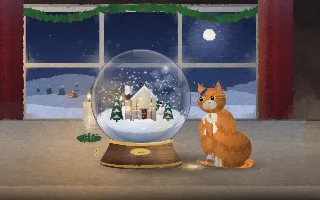
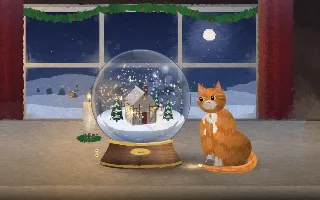
Snow Globe: SPEC §10.43 and its rows, README, a fresh thumbnail and bench

diff --git a/SPEC.md b/SPEC.md
@@ -163,7 +163,7 @@ Added for Christmas, drawn in code (designs in §10.27–§10.30):
 | `christmas-village` | village-logic.js, village-art.js, village-buildings.js, village-scene.js, village-actors.js, christmas-village.js (and Harvest's harvest-sky.js) | ~3.9k lines | Interactive (tap a cat, a skater, a house, a tree, the cabin, the sky); a New England town painted in code at daylight colour and washed with the hour; the light, the calendar, the windows' hours, the layout and the skaters' steering (`VillageLogic`), unit-tested; follows `host.now()` (the real sun and moon, the church clock, Christmas Eve) (§10.40) |
 | `painted-village` | painted-logic.js, painted-plates.js, painted-art.js, painted-buildings.js, painted-bake.js, painted-cast.js, painted-village.js (and Harvest's harvest-sky.js, Christmas Village's village-logic.js) | ~4.2k lines | Interactive (tap a house, a lamp, a skater, the grand tree, the snowman, a cat, a squirrel, the deer, the bears, the cardinal, the night sky); §10.40's whole town from the hill above the pond, in metres, as about 325,000 brush strokes laid once and lit by canvas arithmetic: the sky's light, two key lights, and a patch of light for every lamp and every floor of windows; the camera, the hour's light, the layout for three shapes of screen, the sledding hill and its sleds, and the plates' arithmetic (`PaintedLogic`), unit-tested; follows `host.now()` (the real sun and moon, the meetinghouse clock, the lamplighter at dusk, Christmas Eve) (§10.41) |
 | `torchlight` | torch-logic.js, torch-art.js, torch-cast.js, torchlight.js (and Painted Village's painted-logic.js, painted-plates.js, painted-art.js, painted-bake.js; Harvest's harvest-sky.js; Christmas Village's village-logic.js) | ~2.1k lines | Interactive (tap the hut or the mountain to send the torches down, a window to light it, a cat, the St Bernard, the night sky for a rocket); an alpine valley at nightfall painted by §10.41's method: far peaks that take the alpenglow, a mountain with its piste cut in switchbacks through the firs, a hut at the top, a chairlift, the inn at the foot with its parlour window and balconies, chalets, a chapel with an onion dome and a clock that keeps the real time; a procession of skiers with flaming torches snaking down, every torch lighting the snow it passes, planted at the bottom in a heart (or a ring, a star, a guard of honour); the camera, the layout for three shapes of screen, the track, the procession and its tumbles, the figures, the year and the calendar (`TorchLogic`), unit-tested; follows `host.now()` (the real sun and moon, the season for the tree and the candles, and New Year's Eve, when the grand descent spells the new year on the mountain at midnight and the fireworks go up) (§10.42) |
-| `snow-globe` | globe-logic.js, globe-art.js, snow-globe.js | ~1.9k lines | Interactive (drag to shake it, tap the base to wind the music box, tap the glass to knock, tap the cat to stroke it); a snow globe on a windowsill, mantel or desk at night, painted as Painted Village is (an underpainting, then brushwork that runs until the colour changes), with a candle and one of the owner's nine cats beside it; the water, the snow in it and its settling (none ever lost), the turntable and its music box, four public-domain carols, the cat's moods and the layout (`SnowGlobeLogic`), unit-tested; follows `host.now()` (the scene through Advent, the tree and a carol on Christmas Eve and Day, the cat in a Santa hat) (§10.43) |
+| `snow-globe` | globe-logic.js, globe-art.js, globe-models.js, snow-globe.js | ~3.4k lines | Interactive (drag to shake it, tap the base to wind the music box, tap the glass to knock, tap the cat to stroke it); a snow globe on a windowsill, mantel or desk at night (or alone on black), painted as Painted Village is (an underpainting, then brushwork that runs until the colour changes), with a candle, a string of lights, a little lit tree and one of the owner's nine cats beside it; eleven scenes built as solids on a turntable (houses of painted faces, painted ellipsoids, limbs, cones), turned and depth-sorted as it goes; the water (turbulent after a shake), the snow and glitter in it and its settling (none ever lost), the 3D view, the turntable and its music box, four public-domain carols, the cat's moods, its tail and the layout (`SnowGlobeLogic`), unit-tested; follows `host.now()` (a Christmas scene a day through Advent, the tree and a carol on Christmas Eve and Day, the cat in a Santa hat, the little tree in December) (§10.43) |
 | `sky-island` | sky-island-logic.js, sky-island-art.js, sky-island-land.js, sky-island-actors.js, sky-island.js (and Harvest's harvest-sky.js) | ~3.5k lines | Interactive (tap a cat, a person, the lake, a house at night, the sky); 16-bit pixel art at its own resolution (a pixel is 2 CSS px on a laptop or 1080p), scaled up pixelated; a terraced island seen from above and in front, its underside, the sea of cloud and the ground far below all baked; the calendar (seasons, holidays, Easter, the owner's dates), the names and the island's three-tier layout from a seed (`SkyIslandLogic`), unit-tested over 240 layouts; follows `host.now()` (the hour, the season, every holiday); keys N, P, V, O, B, W, S, H |
 | `ice-patrol` | ice-logic.js, ice-gl.js, ice-cockpit.js, ice-patrol.js | ~3k lines | The first on WebGL (§10.34): an endless snowfield from two baked noise fields, the same height formula in JavaScript and in the shaders (`IceLogic`), unit-tested; a 2D cockpit (struts, a winged console, switches that keep house) whose centre screen is a live scan of the real terrain; a 2D ridgeline fallback without WebGL; its own watch on the GPU; interactive (fly it by hand: keys and a drag; the autopilot takes it back after 5 s); keys W A S D, arrows, Q, E, X, T, V, R |
 | `sumo` | sumo-logic.js, sumo-art.js, sumo.js | ~1.3k lines | No network; a league of invented wrestlers kept in `host.storage`, written in Japanese with an English gloss (§10.35); bouts and tournaments pure and seeded (`SumoLogic`), unit-tested; interactive (a tap throws a cushion); evening by `host.now()`; keys N, B |
@@ -897,7 +897,7 @@ and the commits.
 | christmas-village | `reflections`, `aurora` (medium) | The land is one baked painting per layout, washed into a second canvas only when the hour's colour has moved a step; lit windows and lamps are one layer repainted when a window goes on or off; every string bulb is on one of two layers faded against each other (the twinkle costs two blits); the cast is a few filled shapes apiece in colours toned for the hour, the trees among them sprites toned the same way; far snow is one path of squares, near flakes a sprite. 5.4% busy on Low, 7.0% on Medium, 15.1% on High at 4× throttle |
 | painted-village | `reflections`, `moving-lights`, `aurora` (medium) | The picture is brush strokes baked once per layout into plates (in slices of a third of a frame, shown as it goes); the hour is about a dozen canvas blends when its colour has moved, most at half size, and only a patch's rectangle when a window or lamp changes; a frame is one blit, the cast (a dozen dabs each, lit in JavaScript a few times a second, the lit picture put back over whoever is behind something), smoke sprites, a few bulbs and the snow as two paths. The picture's size is capped by tier (0.8, 1.4, 2.5 megapixels) and a change of render scale repaints nothing. 8.6% busy on Low, 17.3% on Medium, 33.3% on High at 4× throttle, the bake included (§10.41) |
 | torchlight | `moving-lights` (medium) | Painted Village's plates and bake (§10.41), on a mountain: the picture baked once per layout, the hour a dozen blends; a frame is one blit and the cast. Every torch's light is done at once: a pool sprite each, screened into one half-size canvas the size of the torches' bounding box, the painting there multiplied by it and added to the frame (three blits however many torches); far skiers are a dab and a flame sprite. The torches × (0.55 + 0.45 density); the fireworks' spark pool 1800 × density + 200, their flash one quarter-size blit. 8.3% busy on Low, 21.7% on Medium, 28.9% on High at 4× throttle, the bake included (§10.42) |
-| snow-globe | `refraction`, `glints` (medium) | The room and the night outside are painted once per layout (an underpainting, then brushwork in slices of 6 ms a frame, shown as it goes), at a size capped by tier (0.8, 1.4, 2.5 megapixels); the scene inside is redrawn into its own canvas only while the snow is in the water or the turntable turns, and squeezed toward the rim by five annular redraws of it (`refraction`); flakes × density (700 at High), pooled, one sprite each, glitter twinkling only with `glints`. At rest it asks for 14 frames a second for the candle and the cat, 4 while the cat sleeps, and none with neither (idleUntil). 6.7% busy on Low, 11.0% on Medium, 18.8% on High at 4× throttle, the bake included (§10.43) |
+| snow-globe | `refraction`, `glints` (medium) | The room and the night outside are painted once per layout (an underpainting, then brushwork in slices of 6 ms a frame, shown as it goes), at a size capped by tier (0.8, 1.4, 2.5 megapixels); the scene's textures and ball sprites are painted and brushed once too; the scene inside is redrawn into its own canvas only while the snow is in the water, the turntable turns, smoke rises or the lighthouse turns (each solid a few dozen affine blits and fills, the floor two rotated blits), and squeezed toward the rim by five annular redraws of it (`refraction`); flakes × density (700 at High), pooled, one sprite each (a few shapes, six turns of the star baked), glitter flashing only with `glints`; the room's bulbs a dot and a baked glow each. At rest it asks for a wait (never a deadline) of 1/14 s while anything flickers (the candle, a cat awake, snow outside, twinkling lights, smoke), 250 ms while the cat sleeps, and 1.5 s with nothing (`restWait`, idleUntil). 12.2% busy on Low, 18.5% on Medium, 24.3% on High at 4× throttle, the bake included (§10.43) |
 | reading-room | `shafts`, `dust` (medium) | Painted Village's method throughout: the hall baked once per layout into its plates (in slices), the hour a dozen blends when the light has moved; the sun's patches and shafts are two half-size greys redrawn only when the sun has moved a fifth of a degree (every half a minute or so, live), soft by scaling down and up, cut by the bands' masks, and laid into the light step and over the lit picture by the step itself; a frame is one blit, the cast (cats, readers, the librarian, the owl, planes, flying books), dust motes as squares, the weather outside clipped to the glass, a few bulbs. Capped at 0.8, 1.4 and 2.5 megapixels; 4, 5 and 6 passes. 16.2% busy on Low, 31.1% on Medium, 41.4% on High at 4× throttle, the bake included (§10.44) |
 | sky-island | — | The canvas is the picture's own pixels (2 CSS px each on a laptop or 1080p, 3 at 1440p, 4 at 4K, 1 on a phone), scaled up pixelated; the terrain (three tiers, their cliffs, the underside, the water) is one bake per season, the roots three sway frames, the sea of cloud two tileable strips and the ground one, rebaked with the light; everything that stands still (houses, trees, lamps, props, trimmings) is baked into one layer per street band, drawn in turn with whoever moves (trees are drawn live, swaying, only on High); the sky is a dithered bake redone as the light changes, the stars four baked twinkle frames; the night is one `source-atop` wash over the island's scratch, with the lit windows and lamps one glow layer redone only when the lit set changes; a passing island is one bake with a few live bits; 20 fps by default (a setting), 12 on Low, paced on a steady timeline through idleUntil; folk × (0.4 + 0.6 density), strays, wildlife, rain, snow, leaves, fireflies × density. Bench 2026-11-11 (v2): Low 21%, Medium 38%, High 46% |
 | ice-patrol | `shadows`, `sparkle` (medium) | WebGL: one grid drawn nine times (96, 64 or 48 cells a side by density), heights and slopes from two noise textures; shadows ten marched steps on High, six on Medium, compiled out when shed (after fading); flakes × density, wrapped in the vertex shader; the cockpit frame painted per light step, the gauges at 15 Hz (8 on Low) on a strip of their own, each instrument only when its reading changes; the terrain scan a 144² map (80² on Low) scrolled by cells, four rows (two) rescanned a tick; lamp halos one sprite a colour; a few dozen height lookups a frame on the main thread. The GPU is watched by the wallpaper itself (late frames give up shadows, then render scale to 0.4), since the governor only times callbacks; software renderers start there. No WebGL: 34 ridgelines a frame in 2D |
@@ -7068,7 +7068,7 @@ base, and springs back. A tap on the base winds it; on the glass, a knock
 (a little stir); on the cat, a stroke. The *Shake it* setting ignores
 touch (a mouse still works), for Android's home screens.
 
-**Keys.** S shake, W wind, B the cat swipes it, N the next scene (saved).
+**Keys.** S shake, W wind, B the cat swipes it, N the next scene (saved; all eleven).
 
 **Cost.** A frame while things move: the snow layer (if snowing outside),
 the candle's flame and glow, the globe (one blit of its scene and five ring
@@ -7077,20 +7077,102 @@ scene's canvas is redrawn only while the snow is in the water or the
 turntable turns. At rest the stage is asked for fourteen frames a second
 (the candle, the snow outside, the cat), four while the cat is asleep and
 nothing else moves, and none at all with no cat, no candle and no snow
-outside. Bench (4× throttle, a phone): Low 6.7%, Medium 11.0%, High 18.8%.
+outside. Bench (4× throttle, a phone): Low 6.7%, Medium 11.0%, High 18.8%;
+after the rework (solids, lights, the tree), Low 12.2%, Medium 18.5%, High 24.3%.
 
-**Tests.** Unit (`tools/snow-globe.test.mjs`, 9): the layout at five screens,
+**Tests.** Unit (`tools/snow-globe.test.mjs`, 12): the layout at five screens,
 both sides and three sizes; the books balance through shakes and steps,
 inside the glass and above the floor; settling at 10, 30 and 120 fps;
-snow on the roofs of every scene, which a shake sheds first; more or fewer
-flakes; the music box's three turnings, its slowing and its tunes in order
-at any frame rate; the cat's moods, its swipe when it's its job and not
-otherwise, a stroke; the scene and the cat by the date; a stroke's run.
+snow on the roofs of every scene (eleven), the water turbulent after a
+shake, which sheds the roofs first; more or fewer flakes; the music box's
+three turnings, its slowing and its tunes in order at any frame rate; the
+cat's moods, its swipe when it's its job and not otherwise, a stroke; thirty
+simulated minutes at rest, frames still coming at the pace each state wants;
+the solid turntable (a face's width by its cosine, front and back seen in turn,
+a ball round whatever the turn, a body foreshortened end on, the train heading
+where it runs, half a turn putting the deer behind); the ears' winding and the
+tail round the cat; the scene and the cat by the date; a stroke's run.
 Smoke: snow on frame one; the brushwork finishes; a drag shakes it (snow off
 the ground, the globe rocks); it settles, the snow lies on the ground and
 the roofs, and the stage paces itself at rest; a tap on the base plays and
 turns it; a tap on the cat, a purr; B, a swipe; with no cat, candle or snow
-outside, almost no frames; Christmas Eve, the tree and a carol playing.
+outside, almost no frames; at rest, 4 to 14 frames a second, also as if the
+page had been open twenty minutes; Christmas Eve, the tree and a carol
+playing; N through every scene, each built; the lights and the little tree
+twinkling at rest; on black, no cat or room, the corner black.
+
+**Rework (owner, 2026-11-25).** Eleven asks, all done:
+- *Just the globe, on black* (`background: black`): no room, cat or candle; the globe
+  centred, the water's back dark with a warm glow low in it, a studio's soft boxes
+  in the glass instead of a window, and (*Its reflection*) the globe and base
+  mirrored faintly in the black, fading below.
+- *A real turntable, not 2D warping* (`globe-models.js`). Each kind is built once
+  as solids in its own frame: a house is its four walls (gable ends as pentagons)
+  and two roof slopes, each a painted, brushed texture laid on its face by an
+  affine transform (exact for a flat face without perspective), shaded by how the
+  face meets the light, faces that look away left out; boxes alike; ellipsoids are
+  a painted ball sprite taken through the 2×2 matrix of the ellipse the solid is
+  seen as (`ellipseOf`, the symmetric root, so the ball's light doesn't turn);
+  limbs and tapered strokes; flat cut-outs that show their edge; cylinders that
+  narrow, banded; cones in segments; a dome cut at the floor. Symmetrical things (a
+  fir, a lamp) stay painted sprites, with snow clumps and baubles that go round
+  them. `view`/`at`/`facing`/`world` (unit-tested) turn and stand each point; parts
+  are sorted by depth, things by theirs, so the deer passes behind the cottage. The
+  floor's top is painted from above and laid down squashed and turned, so paths,
+  the pond, the track and the sea go round with what stands on them; its light
+  stays where the candle is. Movers (the train, the skaters, the sled, the slider)
+  head along their own length. The refraction stays a lens over it all.
+- *Six new scenes*, in the rotation: **the lighthouse on the rocks** (a banded tower,
+  gallery, lantern; its beam sweeps round on its own and flashes when it points at
+  us; a keeper's hut, rocks in the sea), **the gingerbread house** (iced walls and
+  roof, gumdrops on the ridge, candy canes, gingerbread men, lollipops, a gumdrop
+  path), **polar bears on the ice** (a bear and two cubs, ice blocks, a fishing hole
+  on a floe), **the carousel** (a striped canopy with lights, horses that rise and
+  fall as it plays, a cobbled ring), **the penguins' igloo** (an igloo whose block
+  joints turn with it, penguins, one sliding round on its belly), **the cabin and
+  the moose** (logs, a stone chimney smoking, a woodpile, a moose). Smoke rises from
+  the cottage, hut, gingerbread house and cabin (and the train's while it runs).
+  *By the date*: Christmas Eve to Boxing Day the tree; 1 to 23 December a different
+  Christmas one each day (`ADVENT`: village, gingerbread, carousel, cabin); the rest
+  of the year a different one each day (`YEAR`, ten).
+- *The hole in the cat's head*: the head is one `Path2D` filled nonzero, and the two
+  ears were traced in mirror order, so one wound against the head's ellipse and
+  cancelled it where they overlap (a transparent patch). Every piece now winds
+  counter-clockwise (`area` checks, a test shows the two traced ears disagreed).
+- *The tail like beads, under the cat*: it was 27 alternately coloured dabs along a
+  curve drawn before the body and dipping below the floor line, so it seemed to pass
+  under a hovering cat. Now one smooth tapered stroke (`tailLine`, unit-tested): out
+  from behind the haunch (that part drawn behind the body), down round its back and
+  along the floor in front of the paws (drawn after the body and the near leg), the
+  tip curling; a painted coat of short strokes in its colours and stripes.
+- *Christmas lights* (`windowLights`: warm, many colours, icy blue, gold): a string
+  through the garland and down both sides of the frame in swags (along the mantel's
+  garland on the mantel), its wire painted, each bulb a dot and a baked glow; also
+  seen through the water, upside down and out of focus as the room is. *The lights*:
+  steady, twinkle, chase or fade.
+- *Books*: each shelf a recess with its board; books of their own width, height and
+  leather, rounded at the spine, banded and titled in gold (drawn crisp after the
+  brush), some leaning, stacks lying flat, a bookend, a little brass globe, a china
+  cat. By the bookshelves the window is narrower, so they have the wall.
+- *It froze after a while until the mouse moved*: `pace()` passed
+  `performance.now() + ms` to `host.idleUntil`, which takes a duration, so each rest
+  lasted as long as the page had been open. `restWait` now gives a wait; a unit test
+  runs thirty simulated minutes at rest; the smoke check wants frames at rest, also
+  as if the page had been open twenty minutes; `wp.test` fails any wallpaper that
+  passes a clock reading to idleUntil.
+- *The key, revolving*: it turns about its own (level) axis: each wing of its bow
+  foreshortens with the cosine of the turn, shows only its edge at a quarter turn,
+  the near wing passes in front of the stem and the far behind, and it glints face on.
+- *A little lit tree* (`deskTree`: in December, always, no; *Its size*, *Its lights*,
+  *On top*: a star, a bow, a golden cat): on the candle's side, further back, painted
+  bough by bough on a dark skirt, tinsel, baubles; its lights in a spiral (the far
+  side hidden), the topper glowing.
+- *Snow and glitter*: flakes soft, six-armed stars that turn, or clumps; near the
+  glass bigger and out of focus, far smaller and dimmer; glitter as hexagonal and
+  square sequins that tumble (squashed as they turn edge on) and flash face on. The
+  water stays turbulent after a shake: the curl of a drifting field of sines
+  (divergence-free, so it stirs without gathering), dying over a fifth of the
+  settling time, on top of the eddies; a hard shake mixes the snow through the water.
 
 **Not verified:** on a real phone; the sound (headless Chrome is muted);
 whether the cat's tap reads as touching the glass at every size (it is

diff --git a/README.md b/README.md
@@ -303,7 +303,7 @@ still draws offline). 📅 **Seasonal** isn't one itself: it picks one by date.
 | ☃ [Christmas Village](https://nealhardesty.github.io/wallpapers/?w=christmas-village) | 👆 | A New England town in the snow: skaters, a grand tree, cats |
 | 🖼 [Painted Village](https://nealhardesty.github.io/wallpapers/?w=painted-village) | 👆 | The whole village from the hill, as a painting: lamplight on snow, a toy train, a sledding hill, bears in the woods |
 | 🔥 [Torchlight Descent](https://nealhardesty.github.io/wallpapers/?w=torchlight) | 👆 | An alpine valley at nightfall, painted: skiers with torches snake down the mountain, a cat rides in a rucksack, and on New Year's Eve they spell the year |
-| 🔮 [Snow Globe](https://nealhardesty.github.io/wallpapers/?w=snow-globe) | 👆 | A painted snow globe on the windowsill: shake it, wind its music box, and the cat has a go too |
+| 🔮 [Snow Globe](https://nealhardesty.github.io/wallpapers/?w=snow-globe) | 👆 | A painted snow globe on the windowsill (or alone on black): eleven scenes on a turntable, shake it, wind its music box, and the cat has a go too |
 | 🏝 [Sky Island](https://nealhardesty.github.io/wallpapers/?w=sky-island) | 👆 | A pixel village on a floating island, new each load |
 | ⚔ [Pixel Quest](https://nealhardesty.github.io/wallpapers/?w=quest) | 👆 | A self-playing 8-bit adventure; take over the hero |
 | 🌇 [Synthwave](https://nealhardesty.github.io/wallpapers/?w=synthwave) | | The endless neon drive |
